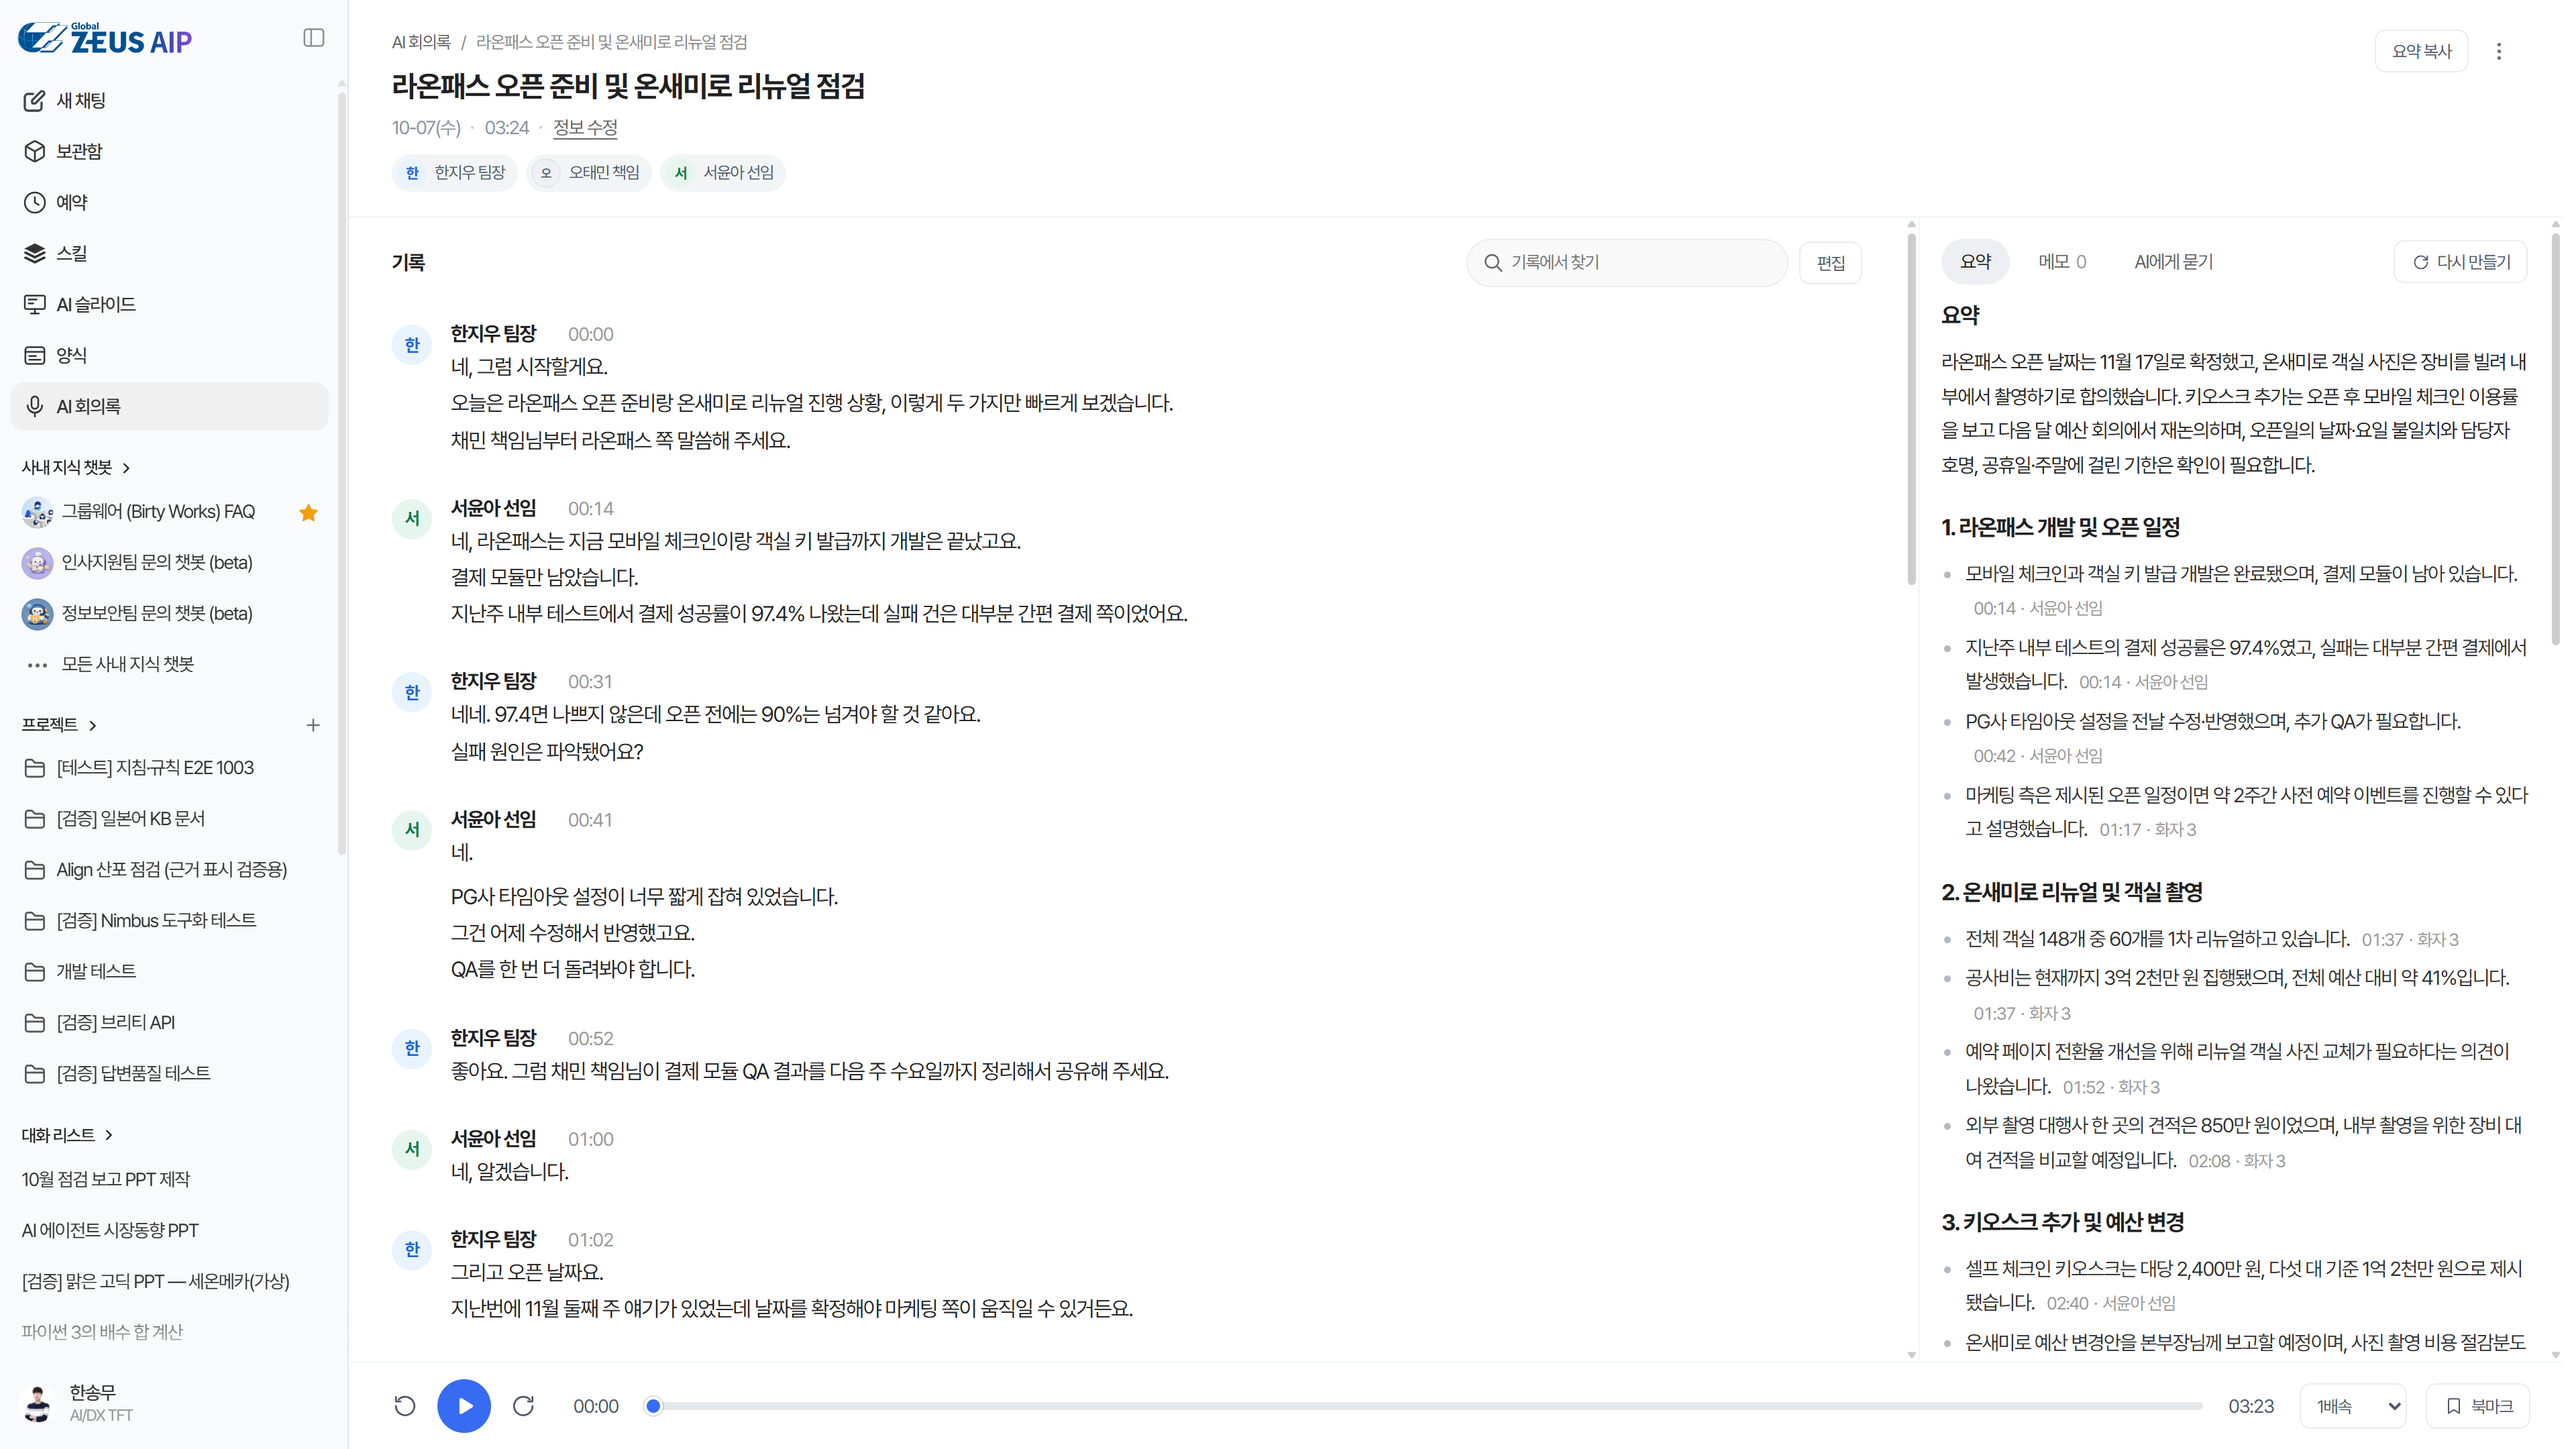
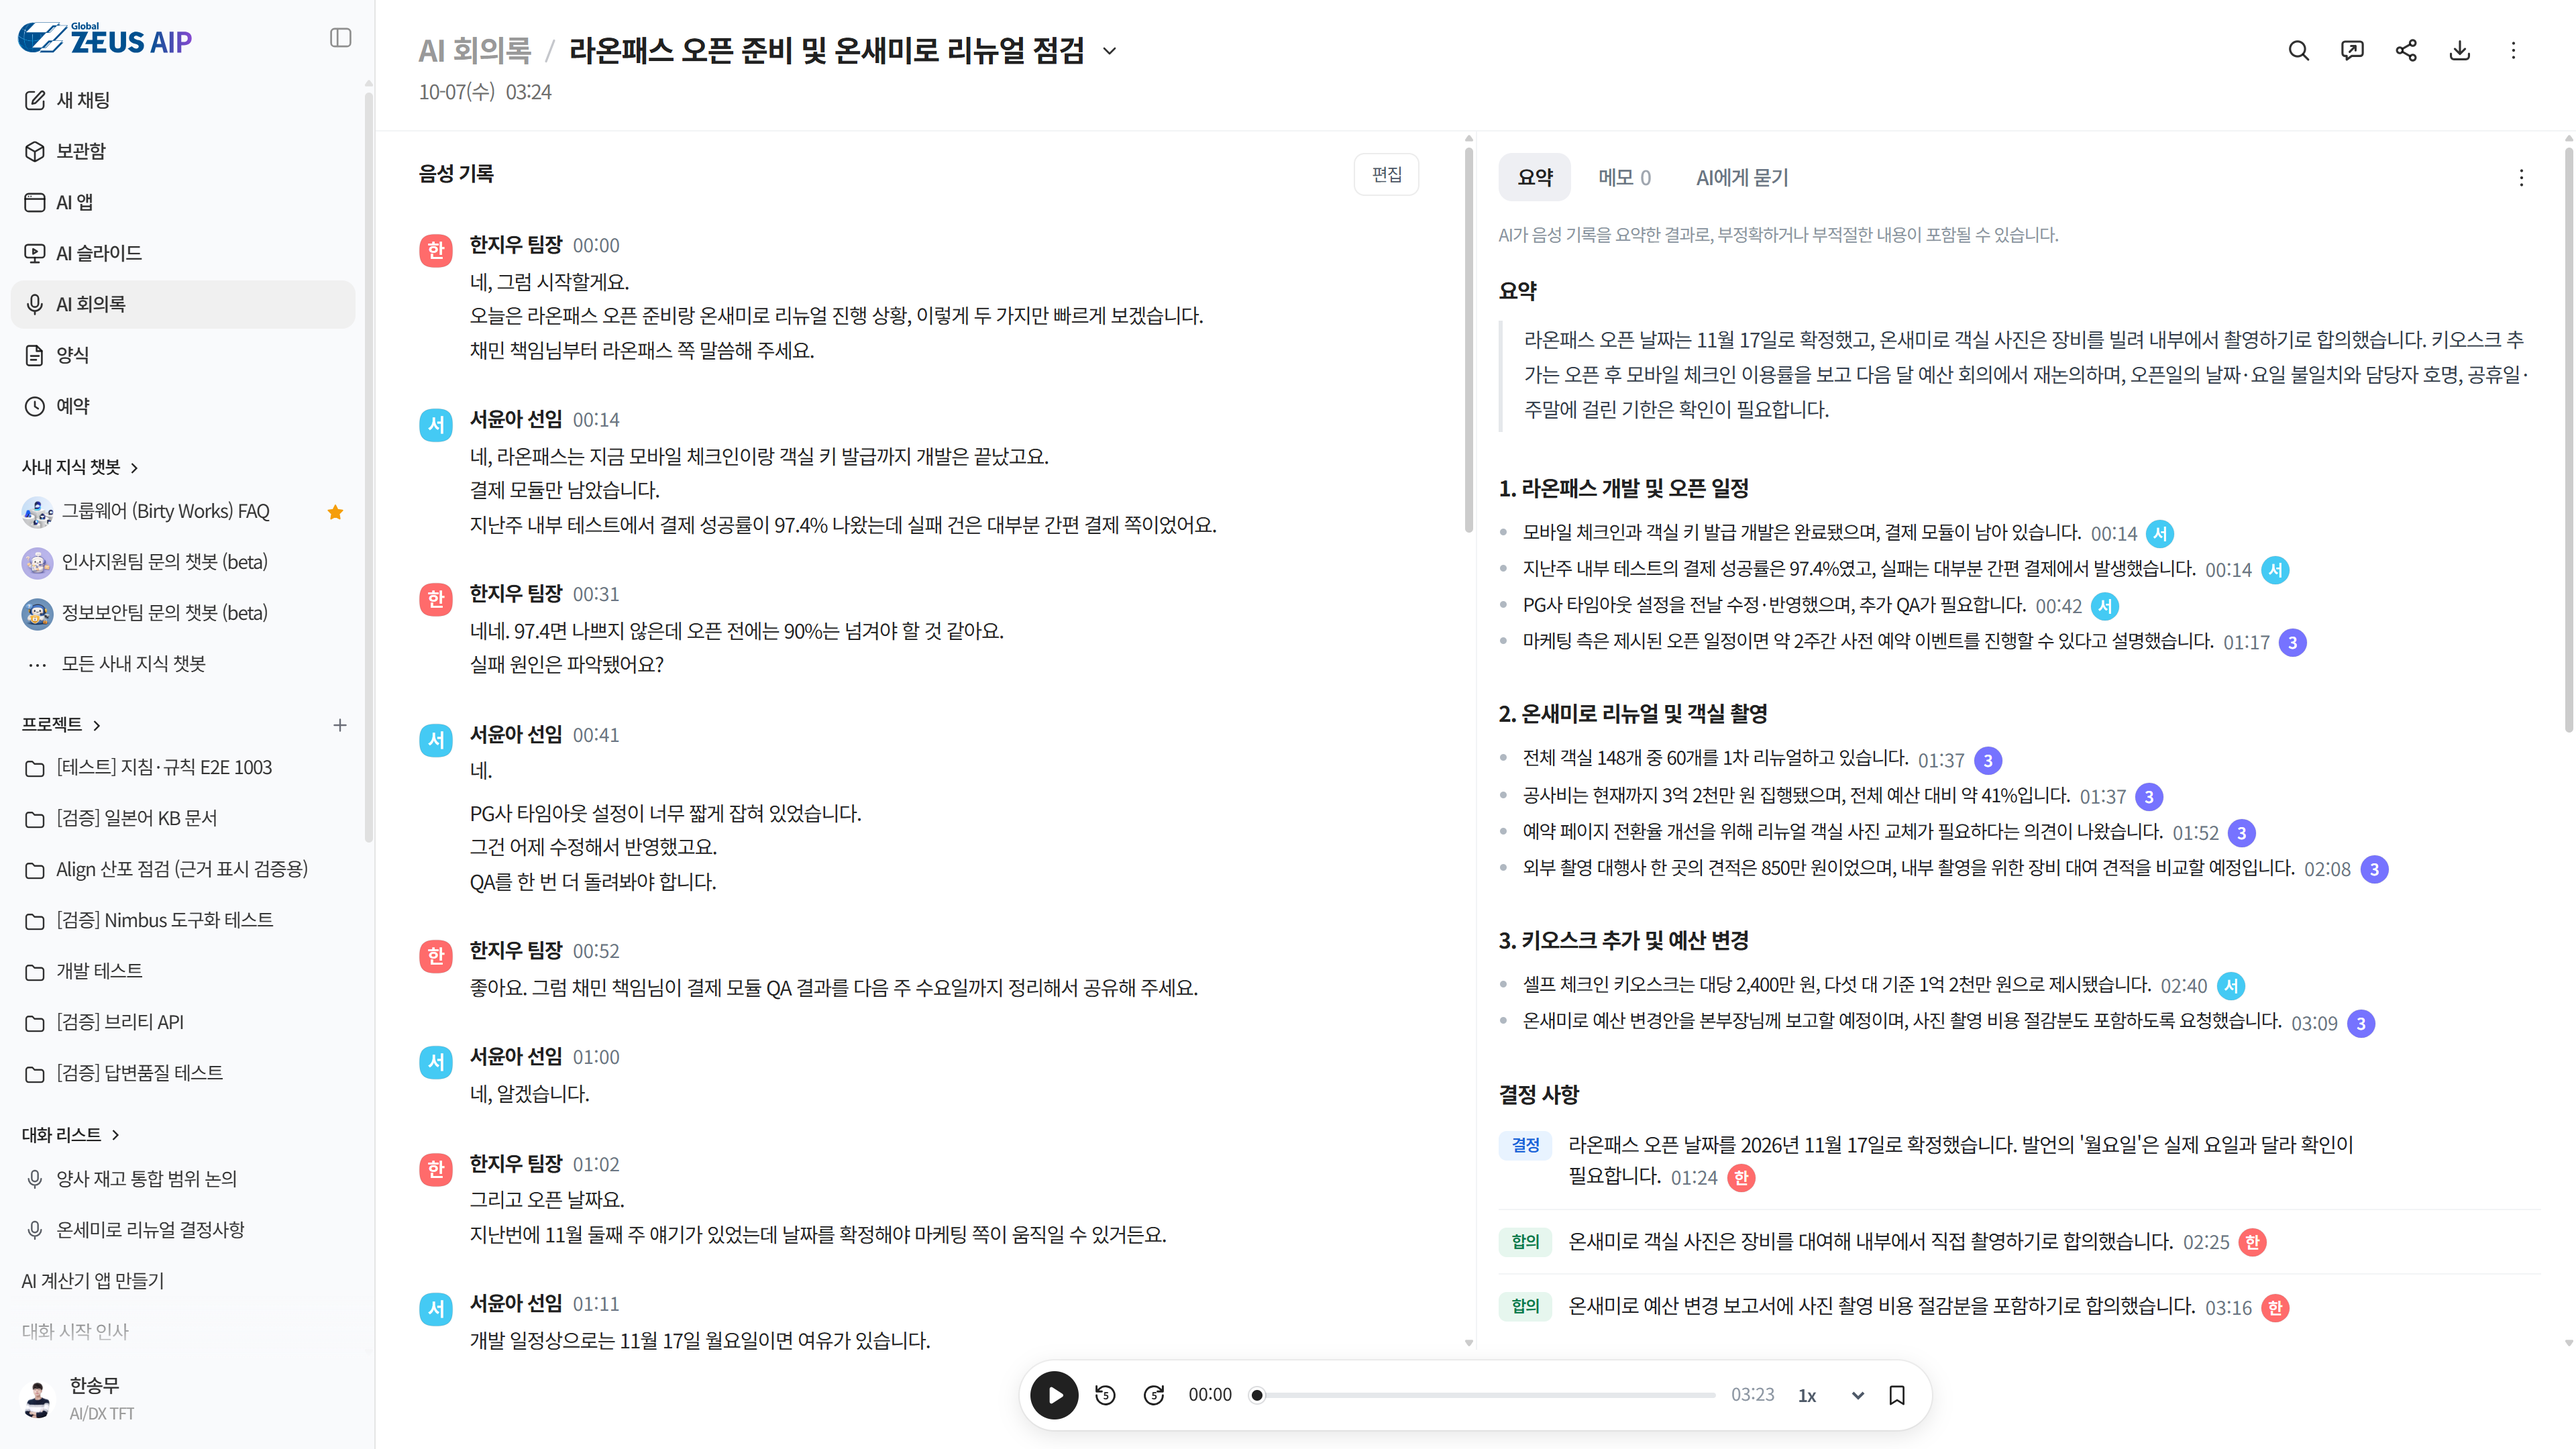
content(ai-platform): 회의록을 개발 완료로 바꾸고 10-30 이후 변경분 반영
발언 단위 화자 변경과 편집, 북마크, 폴더와 공유, 새 채팅에 첨부를
서술에 더하고, 화면이 많이 바뀐 회의 상세와 목록을 다시 찍었다.
ERP와 인사 MCP는 스위치가 기본 꺼짐이라 넣지 않았다.

diff --git a/src/content/builds.ts b/src/content/builds.ts
@@ -527,12 +527,15 @@ export const builds: Build[] = [
       { type: 'paragraph', text: '사람이 직접 고친 부분은 에이전트가 덮어쓰지 않고, 되돌리기를 눌러도 그사이 에이전트가 바꾼 내용은 그대로 둡니다. 에이전트가 고친 턴마다 저장 지점을 남겨, 기록에서 이전 판으로 돌아갈 수 있습니다.' },
       { type: 'paragraph', text: '대화로 고치다가 직접 손보고 싶을 때를 위해 편집기 왼쪽에 요소, 텍스트, 사진, 업로드, 배경 패널을 두었습니다. 요소 패널에는 도형과 아이콘 외에 차트 모양과 타임라인, SWOT 같은 도해를 묶음으로 두어 장의 뼈대를 한 번에 세울 수 있습니다. 요소를 끌면 다른 요소의 가장자리나 장 가운데에 붙으면서 안내선이 서고, 묶거나 잠글 수도 있습니다. 글꼴과 정렬은 위쪽 서식 줄에서 바로 바꿉니다.' },
       { type: 'paragraph', text: '사진은 여러 장을 한 번에 올리거나 편집 중인 장에 바로 끌어다 놓을 수 있고, 사진 패널에서 무료 사진을 찾아 넣을 수도 있습니다. 사진이 발표자료에 박혀 밖으로 나가기 때문에 출처 표기 의무가 없는 CC0 사진만 서버를 거쳐 보여 줍니다.' },
-      { type: 'heading', text: 'AI 회의록 (개발 중)' },
-      { type: 'image', src: '/projects/ai-platform/275.png', alt: '회의 상세 화면 - 왼쪽 화자별 기록, 오른쪽 요약과 근거 시각, 아래 재생 막대', caption: '회의 상세 - 기록과 요약' },
+      { type: 'heading', text: 'AI 회의록' },
+      { type: 'image', src: '/projects/ai-platform/275.png', alt: '회의 상세 화면 - 왼쪽 화자별 음성 기록, 오른쪽 요약과 근거 시각, 아래 재생 바', caption: '회의 상세 - 음성 기록과 요약' },
       { type: 'paragraph', text: '회의를 녹음하거나 녹음 파일을 올리면 발언 기록으로 옮기고, 기록을 바탕으로 요약을 만듭니다. 기록의 글자를 누르면 그 자리부터 다시 듣고, 요약 항목마다 근거가 된 발언 시각이 붙습니다.' },
-      { type: 'image', src: '/projects/ai-platform/276.png', alt: '회의 목록 화면 - 회의 시작, 녹음 파일 올리기, 회의별 요약', caption: '회의 목록' },
+      { type: 'image', src: '/projects/ai-platform/276.png', alt: '회의 목록 화면 - 왼쪽 폴더, 회의 시작, 녹음 파일 올리기, 회의별 요약', caption: '회의 목록 - 폴더와 공유받은 회의' },
       { type: 'paragraph', text: '녹음은 브라우저에서 바로 합니다. 녹음하는 동안 조각을 브라우저에 쌓아 두어, 탭이 닫혀도 다시 열면 녹음을 건질 수 있습니다. 전사할 때는 참석자 이름과 회의 용어를 힌트로 넘겨 이름을 잘못 받아 적는 일을 줄였습니다.' },
       { type: 'paragraph', text: '요약의 근거 시각은 모델이 쓴 인용을 기록에서 실제로 찾았을 때만 붙이고, 찾지 못하면 근거 미확인으로 남깁니다. 할 일의 기한이 주말이나 회사 휴일에 걸리면 앞 평일로 맞춥니다. 회의 내용은 AI에게 묻기 탭에서 이어서 물어볼 수 있습니다.' },
+      { type: 'paragraph', text: '받아 적은 글이 틀리면 발언마다 화자를 바꾸거나 글을 고칠 수 있고, 다시 들을 대목은 발언에 북마크를 걸어 두면 재생 막대에 깃발로 남습니다.' },
+      { type: 'paragraph', text: '회의는 AI 앱과 같은 방식으로 폴더에 정리하고, 사람과 부서에 보기 권한으로 공유합니다. 녹음하면서 적은 메모는 소유자에게만 보이고, 공유받은 사람이 AI에게 물을 때도 메모는 맥락에 넣지 않습니다. 공유받은 사람의 질문은 각자 따로 대화로 남아 소유자의 대화와 섞이지 않습니다.' },
+      { type: 'paragraph', text: '회의 내용으로 보고서나 PPT를 만들 때는 회의록을 파일로 새 채팅에 붙입니다. AI에게 묻기는 그 회의만 근거로 답하는 자리라, 문서와 앱 도구가 필요한 일은 일반 채팅으로 넘기는 편이 맞았습니다.' },
       { type: 'heading', text: 'AI 앱 (시범 운영)' },
       { type: 'image', src: '/projects/ai-platform/279.png', alt: 'AI 앱 목록 화면', caption: 'AI 앱 목록 - 앱마다 실제 화면 축소본' },
       { type: 'paragraph', text: '채팅에서 만든 현황판이나 신청서를 앱으로 올려 사람, 부서, 전사에 공유하고, 앱 옆의 대화로 계속 고칩니다. 대화 안에 묻혀 있던 화면을 주소 하나로 계속 쓰게 하려는 것입니다.' },
